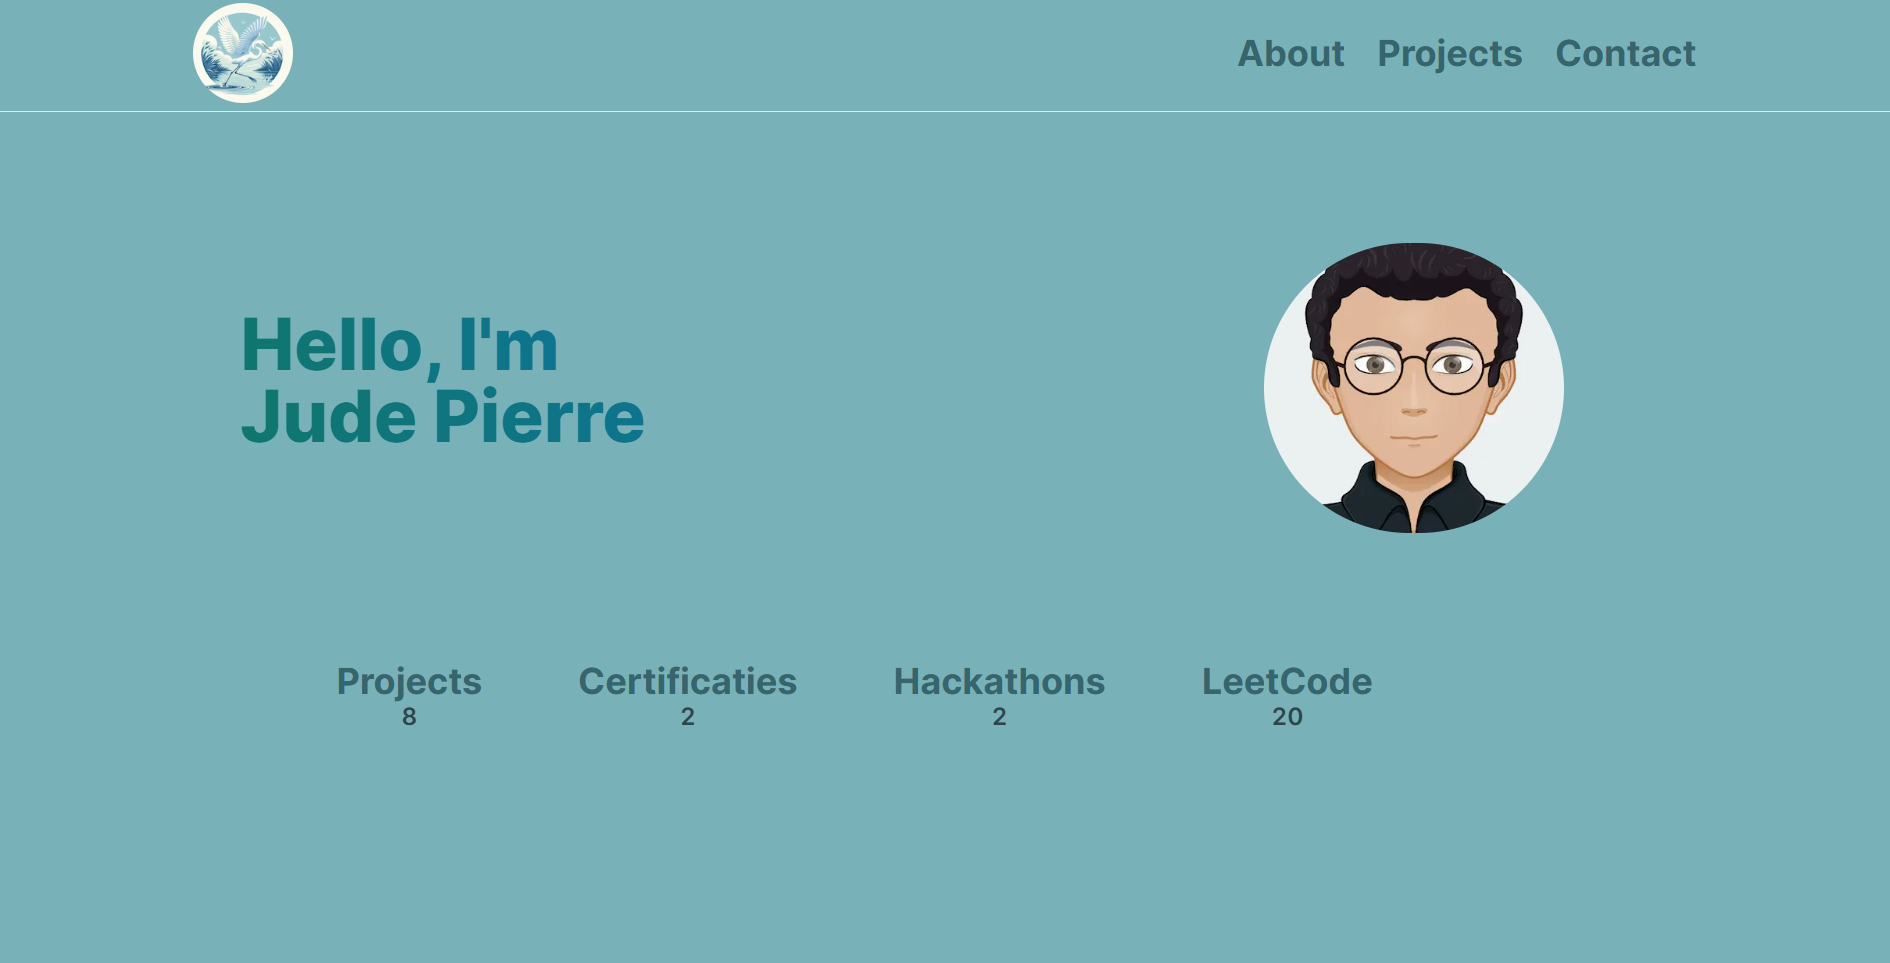
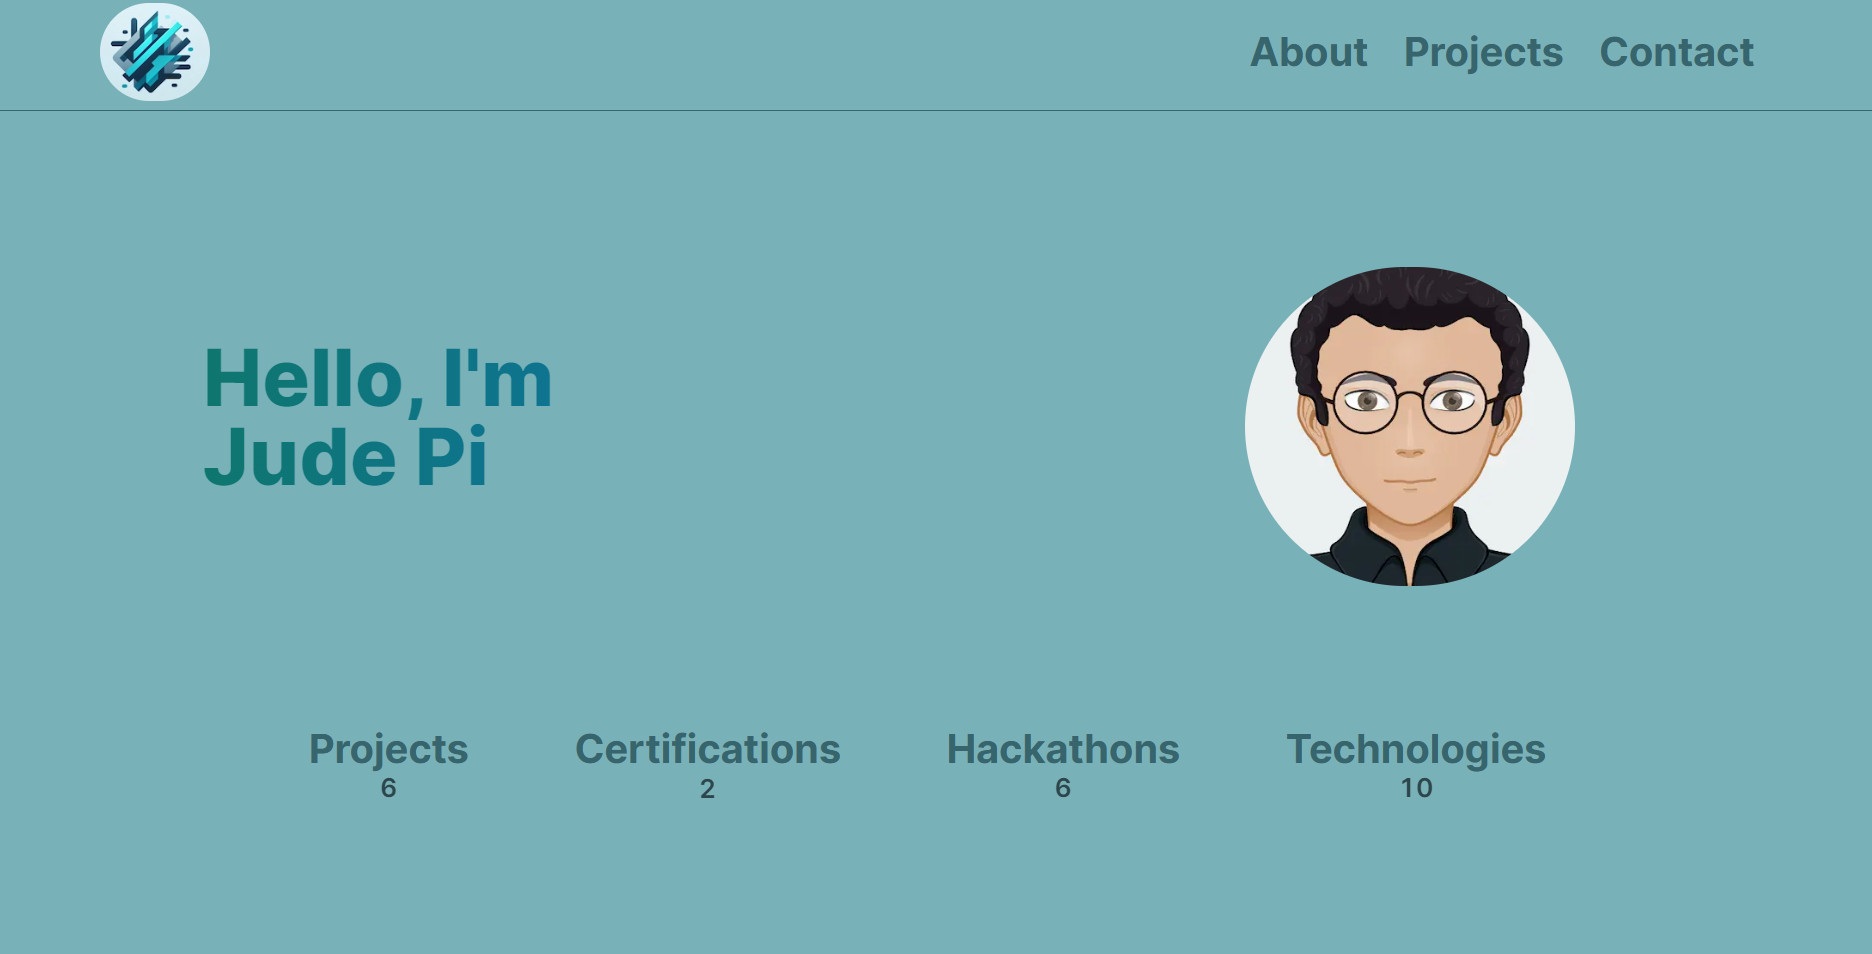
added projects, and fixed project card component

diff --git a/src/app/components/ProjectSection.jsx b/src/app/components/ProjectSection.jsx
@@ -7,6 +7,18 @@ import ProjectPopUp from "../components/ProjectPopUp";
 const projectsData = [
   {
     id: 1,
+    title: "Connect-Tags",
+    description: "A WIP full-stack app developed with React-Native, Flask, and FireBase.",
+    detailedDescription:
+      "Connect-Tags is a group project done by myself and two other members (Casey Mak, and Mohammed Areefin). during the 2024 Wafflehacks hackathon. The project is still WIP. We used react-native to create the front-end so that we can have one simple code-base for all 3 platforms (web, apple, android). We are currently working on the backend with Flask and FireBase, and other features.",
+    image: "/images/projects/Connect-Tags.jpeg",
+    gitUrl: "https://github.com/jpntc/wafflehacks-2024-Connect-Tags",
+    tag: ["All", "Web"],
+    demo: "https://www.youtube.com/embed/3ma1kaWPtUU?si=QlKLmeqpveUyY0Gc",
+    styles: { backgroundSize: "cover", width: "100%", overflow: "hidden" },
+  },
+  {
+    id: 2,
     title: "Image Generator",
     description:
       "A web app that integrates the DALL-E 3 API to generate images from user input, along with interactive components to adjust the images created to match what is desired in mind.",
@@ -18,7 +30,7 @@ const projectsData = [
     styles: { backgroundSize: "cover" },
   },
   {
-    id: 2,
+    id: 3,
     title: "Game Hub",
     description:
       "A game browsing web app that uses RAWG's API and filters that gives power to browse hundreds of games.",
@@ -30,13 +42,13 @@ const projectsData = [
     styles: { backgroundSize: "cover" },
   },
   {
-    id: 3,
+    id: 4,
     title: "Portfolio",
     description:
       "A portfolio to show the track record of my journey in programming and software engineering. ",
     detailedDescription:
       "A portfolio web application developed with Next.js and Tailwind CSS to share information about myself and my journey. The project leverages the strengths of React and the component-based software engineering approach it offers which is popular in today's web development industry. I Created 6 components for the 6 different page sections, from the Navbar to the Footer and other children components for important functionalities. The libraries I used for the animations are React's Framer Motion, Type-Animation, and Animated Numbers. I attempted a dynamic code approach when necessary for generating site information, to make the codebase small and readable. RESEND was used for sending emails. AWS was used for deployment.",
-    image: "/images/projects/portfolio.png",
+    image: "/images/projects/Portfolio.png",
     gitUrl: "https://github.com/jpntc/Portfolio",
     tag: ["All", "Web"],
     demo: "",
@@ -45,7 +57,7 @@ const projectsData = [
     },
   },
   {
-    id: 4,
+    id: 5,
     title: "Inventory Management System",
     description:
       "An inventory system that offers CRUD operations to simulate a real-world system used by commerce businesses.",
@@ -59,7 +71,7 @@ const projectsData = [
     styles: { backgroundSize: "cover" },
   },
   {
-    id: 5,
+    id: 6,
     title: "URL Parser",
     description:
       "A URL parsing program that takes in URLs that point to different web pages and extracts the information they contain.",

diff --git a/src/app/components/ProjectCard.jsx b/src/app/components/ProjectCard.jsx
@@ -5,13 +5,16 @@ const ProjectCard = ({ imgUrl, title, description, onClick, styles}) => {
   return (
     <div className="">
       <div
-        className={`h-52 relative group overflow-hidden rounded-t-xl ${styles}`}
-        style={{
-          background: `url(${imgUrl})`,
-          backgroundSize: `${styles.backgroundSize}`,
-          backgroundRepeat: "no-repeat",
-        }}
+        className={`h-52 relative group overflow-hidden rounded-t-xl`}
+        style={{...styles}}
       >
+        <div className="w-full h-full"
+          style={{
+            backgroundImage: `url(${imgUrl})`,
+            backgroundSize: `${styles.backgroundSize}`,
+            backgroundPosition: "center",
+          }}
+        />
         <div className="overlay absolute top-0 left-0 w-full h-full bg-black bg-opacity-0 hidden group-hover:flex group-hover:bg-opacity-80 transition-all duration-500 items-center justify-center ">
           <WindowIcon
             className="h-10 w-10 text-quaternary-dark cursor-pointer absolute top-1/2 left-1/2 -translate-x-1/2  -translate-y-1/2  hover:text-slate-100"

diff --git a/src/app/components/HeroAnimation.jsx b/src/app/components/HeroAnimation.jsx
@@ -12,7 +12,7 @@ const AnimatedNumbers= dynamic(
 const AchievementsList = [
   {
     metric: "Projects",
-    value: "7"
+    value: "6"
   },{
     metric: "Certifications",
     value: "2"
